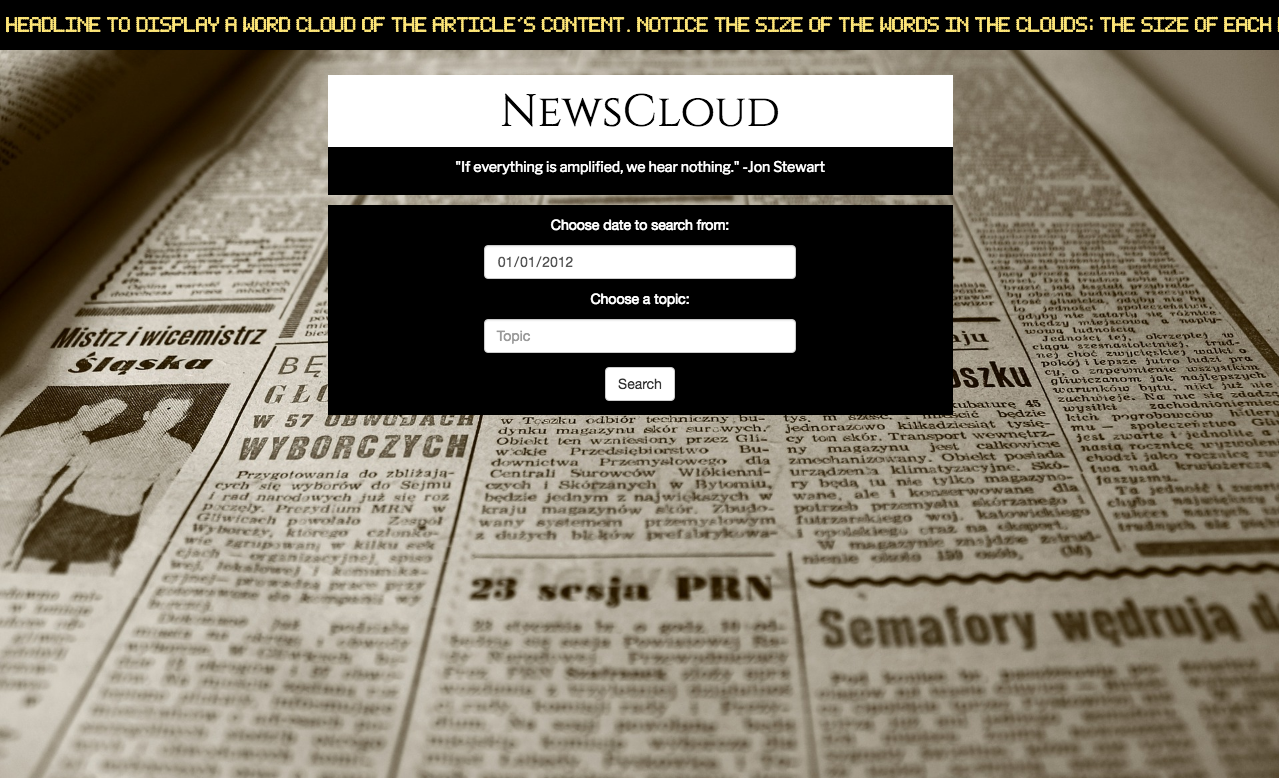
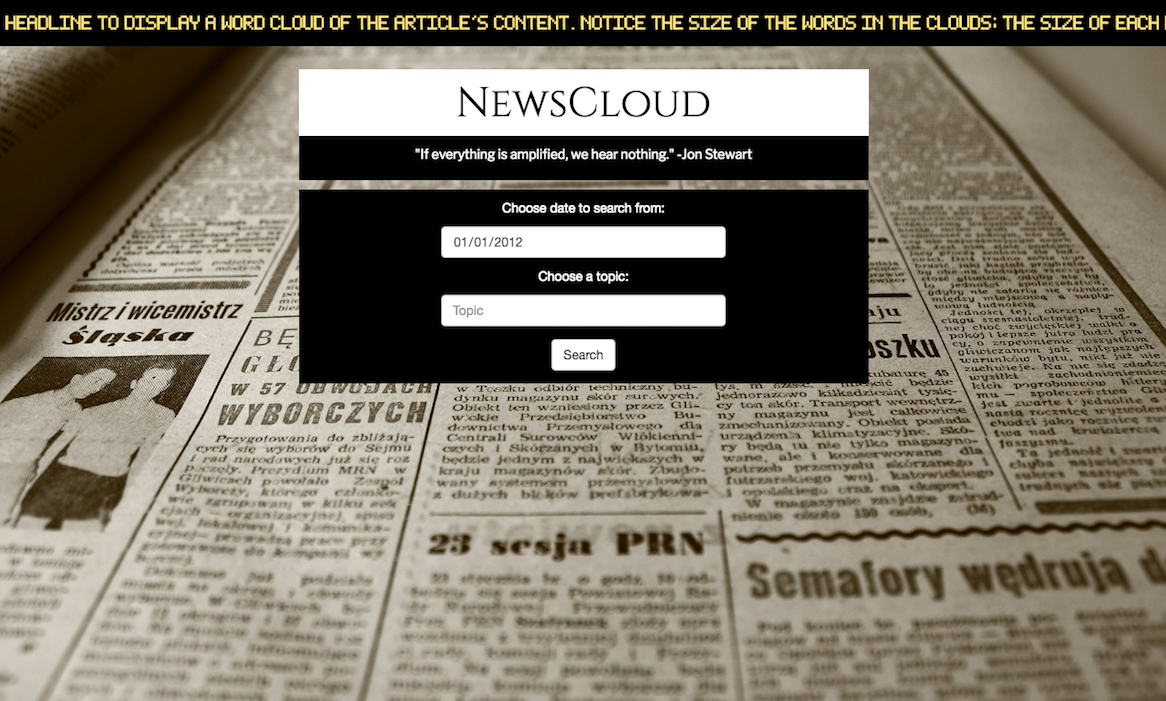
Fixed slider

diff --git a/index.html b/index.html
@@ -17,6 +17,7 @@
 
     <meta name="viewport" content="width=device-width,initial-scale=1">
     <!-- Place favicon.ico and apple-touch-icon.png in the root directory -->
+
     <!-- styles -->
     <link rel="stylesheet" href="styles/vendor.css">
     <link rel="stylesheet" href="styles/main.css">
@@ -286,6 +287,12 @@ ga('send', 'pageview');
       <li><a href="#"><img src="images/picturesque_thumb.png" alt="thumb" class="noMaxWidthImg"></a></li>
     </ul>
 
+    <ul id="sliderLinks">
+      <a href=""><button type="button" role="button" ><i class="fa fa-external-link"></i></button></a>
+      <a href=""><button type="button" role="button" ><i class="fa fa-external-link"></i></button></a>
+      <a href=""><button type="button" role="button" ><i class="fa fa-external-link"></i></button></a>
+    </ul>
+
 
 
     <!-- clients -->
@@ -296,8 +303,6 @@ ga('send', 'pageview');
             <div class="voffset90"></div>
             <p class="pretitle"></p>
             <div class="voffset10"></div>
-
-            <h2 class="subtitle big">we are extremely dedicated, ambitious and love what we do!</h2>
 
             <h2 class="subtitle big">We are extremely dedicated web developers that love what we do!</h2>
 
@@ -651,6 +656,8 @@ ga('send', 'pageview');
     <script src="scripts/plugins/jquery.countdown/jquery.plugin.min.js"></script>
     <script src="scripts/plugins/jquery.countdown/jquery.countdown.min.js"></script>
     <script src="scripts/plugins/responsiveslides.min.js"></script>
+    <!-- Font Awesome -->
+    <script src="https://use.fontawesome.com/8c9744533c.js"></script>
     <script src="scripts/whitleySlider.js"></script>
 
 
@@ -664,7 +671,9 @@ ga('send', 'pageview');
     <script src="https://maps.googleapis.com/maps/api/js?key=AIzaSyDgpOBt65EwnNVdCJVy78jl3H4qqo0ZBO8&callback=initMap"
     async defer></script>
 
-    <script>
+    <script type="text/javascript">
+
+      $("[data-toggle='popover']").popover();
 
       function initMap() {
         var map = new google.maps.Map(document.getElementById('map'), {

diff --git a/styles/main.css b/styles/main.css
@@ -7780,3 +7780,32 @@ body.dark .thumbnails.work5 .thumbnail:hover .rollover {
   display: block;
   max-width: 100%;
 }
+
+
+/*Slider*/
+
+#sliderLinks {
+  background: black;
+  text-align: center;
+  max-width: 540px;
+  margin: 0 auto;
+}
+
+#sliderLinks button {
+  color: white;
+  background-color: black;
+}
+
+#sliderLinks:nth-child(0) {
+  padding-right: 30px;
+  margin-right: 30px;
+}
+
+#sliderLinks:nth-child(1) {
+  margin-left: .3em;
+}
+
+#sliderLinks:nth-child(2) {
+  padding-left: 30px;
+  margin-left: 30px;
+}

diff --git a/styles/slider.css b/styles/slider.css
@@ -33,6 +33,8 @@
 }
 
 
+
+
 .rslides_tabs {
   list-style: none;
   padding: 0;
@@ -42,7 +44,7 @@
   -webkit-box-shadow: 0 0 1px rgba(255,255,255,.3), inset 0 0 5px rgba(0,0,0,1.0);
   font-size: 18px;
   list-style: none;
-  margin: 0 auto 50px;
+  margin: 0 auto;
   max-width: 540px;
   padding: 10px 0;
   text-align: center;
